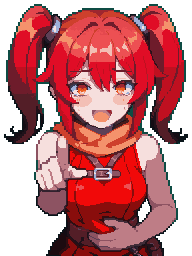
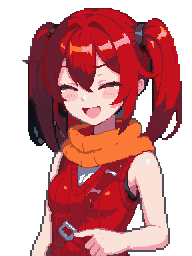
Jieyan's laughing and panicking poses redone from her everyday portrait
Drawn from portrait.png (img2img with it as the style reference), then every
dot set to her portrait's colours with the reds matched to its shading: crimson
hair, black ties, dark red vest, orange scarf, lit skin. No outline.

diff --git a/game/art/NOTES.md b/game/art/NOTES.md
@@ -40,6 +40,8 @@
 
 - **婕焰的下巴、脖子、右臉和頭髮交界、耳朵**：在 `portrait.png` 上用局部重繪重畫（遮罩避開眼睛、嘴、臉紅），選了下巴線最順、耳朵完整露出的一張，再把下巴附近 8 顆藍灰色雜點換成旁邊的顏色。之後所有差分只保留眼睛、眉毛、嘴、臉頰（臉紅和汗）這幾塊，其餘全部用 `portrait.png` 的像素蓋回去（遮罩存在暫存的 `jin_parts.png`：左眼 50–94 × 66–104、右眼 94–136 × 64–102、嘴 76–108 × 104–126、兩頰）。
 
+- **婕焰的兩個姿勢**：這次不是從文字重新生成，是拿 `portrait.png` 當起始圖（img2img，強度 0.86）加上同一張當畫風參考（IPAdapter 0.7），再放大兩倍重繪、縮回 192 × 256。生出來的顏色還是會飄（頭髮和背心偏亮、髮束綁帶偏藍），所以每一格都換成 `portrait.png` 色盤裡最近的顏色，頭髮和背心的紅再照 `portrait.png` 紅色的明暗分布對齊。`laugh` 後面那隻手臂整隻是陰影色，改成亮膚色加兩格陰影；兩張下巴左下透出背景的洞用後面頭髮的暗紅補起來。
+
 ## 上一輪的總結
 
 清單第 0 到 6 項全部做完，每項都已提交並推到分支，`manifest.js` 都已登記。沒有跳過任何一項。
